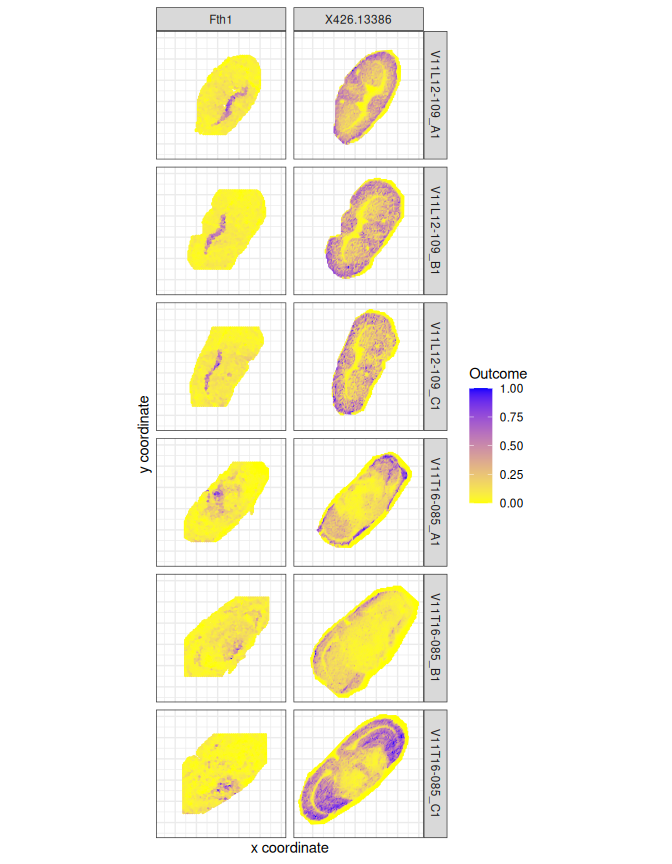
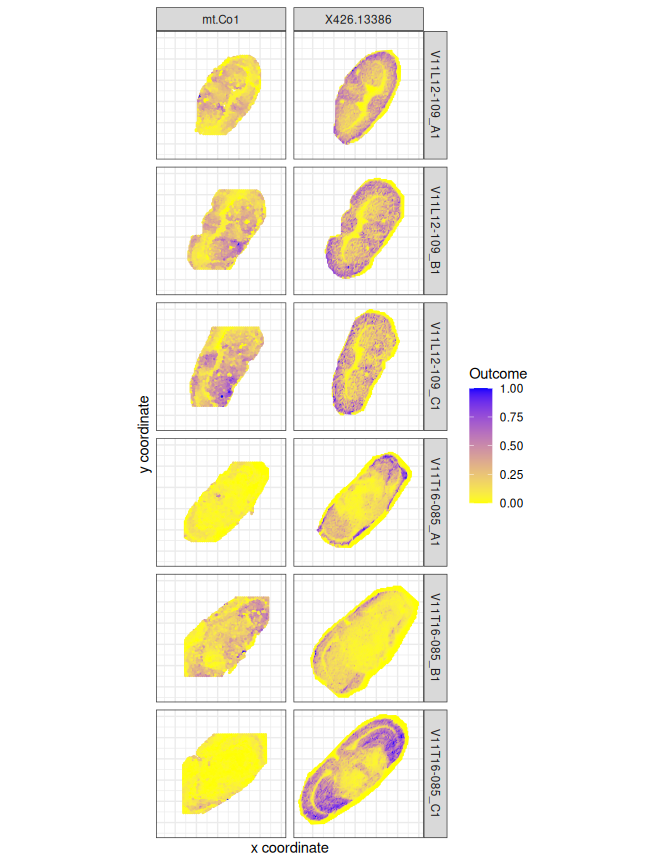
Removing reference to smoppix at installation

diff --git a/README.md b/README.md
@@ -80,7 +80,7 @@ register(MulticoreParam(2))
 
 ``` r
 moranRes <- sbivar(singleStx, singleMet, singleStxCoords, singleMetCoords,
-  method = "Moran's I"
+    method = "Moran's I"
 )
 ```
 
@@ -88,11 +88,11 @@ moranRes <- sbivar(singleStx, singleMet, singleStxCoords, singleMetCoords,
 
     ## Testing significance of bivariate Moran's I for 100 feature pairs
 
+    ## Calculating bivariate Moran's I statistics ...
+
     ## Fitting variograms for first modality (10 features) ...
 
     ## Fitting variograms for second modality (10 features) ...
-
-    ## Calculating bivariate Moran's I statistics ...
 
     ## Calculating variances of bivariate Moran's I statistics ...
 
@@ -122,13 +122,20 @@ Have a look at the results:
 head(moranRes$result)
 ```
 
-    ##                      Ixy_2e-05     Ixy_0.002       Ixy_0.2       pVal     pAdj
-    ## Fth1__X573.21671  1.194528e-04  1.022411e-04  1.221550e-05 0.02057933 0.997663
-    ## Fth1__X426.13386 -1.185796e-04 -9.845418e-05 -7.282392e-06 0.02677542 0.997663
-    ## Fth1__X537.21448 -7.912325e-05 -8.095472e-05 -1.562551e-05 0.11938969 0.997663
-    ## Fth1__X573.23369  3.945623e-05  3.128742e-05  3.549317e-06 0.14467783 0.997663
-    ## Fth1__X576.20502  7.059640e-05  7.222983e-05  1.586494e-05 0.38430998 0.997663
-    ## Fth1__X523.19829 -3.460037e-05 -4.901948e-05 -1.281152e-05 0.43401716 0.997663
+    ##                        Ixy_2e-04     Ixy_0.002      Ixy_0.02       pVal
+    ## Fth1__X573.21671    1.193165e-04  1.022411e-04  6.061050e-05 0.01816490
+    ## Fth1__X426.13386   -1.228684e-04 -9.845418e-05 -4.604064e-05 0.01944693
+    ## Fth1__X537.21448   -8.188347e-05 -8.095472e-05 -5.791695e-05 0.08811071
+    ## Fth1__X573.23369    4.075583e-05  3.128742e-05  1.621407e-05 0.09431839
+    ## mt.Co1__X426.13386  7.685216e-05  5.274923e-05  1.184522e-05 0.21346616
+    ## Fth1__X576.20502    7.445046e-05  7.222983e-05  5.841386e-05 0.24726333
+    ##                         pAdj
+    ## Fth1__X573.21671   0.9723466
+    ## Fth1__X426.13386   0.9723466
+    ## Fth1__X537.21448   0.9862872
+    ## Fth1__X573.23369   0.9862872
+    ## mt.Co1__X426.13386 0.9862872
+    ## Fth1__X576.20502   0.9862872
 
 Plot the most significantly spatially associated gene-metabolite pair :
 
@@ -161,13 +168,13 @@ log-link is used in both cases.
 
 ``` r
 multiGAMRes <- sbivar(
-  X = Vicari$TranscriptOutcomes, Y = Vicari$MetaboliteOutcomes,
-  Cx = Vicari$TranscriptCoords, Ey = Vicari$MetaboliteCoords,
-  method = "GAM", families = list("X" = mgcv::nb(), "Y" = Gamma(lin = "log"))
+    X = Vicari$TranscriptOutcomes, Y = Vicari$MetaboliteOutcomes,
+    Cx = Vicari$TranscriptCoords, Ey = Vicari$MetaboliteCoords,
+    method = "GAM", families = list("X" = mgcv::nb(), "Y" = Gamma(lin = "log"))
 )
 ```
 
-    ## Starting sbivar analysis of 6 images on 10 computing cores
+    ## Starting sbivar analysis (GAMs) of 6 images on 10 computing cores
 
     ## Image 1 of 6
 
@@ -189,7 +196,7 @@ design <- data.frame("mouse" = mouse)
 multiGAMLmms <- fitLinModels(multiGAMRes, design, Formula = ~ (1 | mouse))
 ```
 
-    ## Fitting 100 mixed effects models on 10 cores
+    ## Fitting 80 mixed effects models on 10 cores
 
 Extract the results for the desired parameter (the intercept)
 
@@ -199,12 +206,12 @@ head(multiGAMLmmsRes$result$Intercept)
 ```
 
     ##                       Estimate         SE        pVal      pAdj
-    ## Fth1__X426.13386    -0.5173665 0.08692546 0.001913878 0.1913878
-    ## mt.Atp6__X426.13386  0.3764458 0.07540160 0.004131023 0.2065512
-    ## Gm42418__X555.20345  0.2615645 0.06416528 0.009573444 0.3145332
-    ## mt.Co3__X288.1186   -0.7161940 0.19572304 0.014606780 0.3145332
-    ## mt.Co1__X288.1186   -0.5606903 0.15622991 0.015726658 0.3145332
-    ## Gm42418__X555.20713  0.2342598 0.07195066 0.022549405 0.3678948
+    ## mt.Co1__X426.13386   0.3751419 0.08554576 0.007119296 0.5695437
+    ## mt.Co2__X426.13386   0.2389757 0.10770610 0.077247025 0.8000025
+    ## mt.Nd1__X576.20502   0.1965198 0.09729149 0.099382000 0.8000025
+    ## mt.Nd2__X576.20502   0.2211247 0.11499889 0.112517980 0.8000025
+    ## Gm42418__X576.20502 -0.1295621 0.06926126 0.120316386 0.8000025
+    ## mt.Nd4__X576.20502   0.2110836 0.11554592 0.127284444 0.8000025
 
 No features are significantly associated after multiplicity correction.
 For illustration, we plot the feature pair with the smallest p-values
@@ -212,8 +219,8 @@ nevertheless:
 
 ``` r
 plotTopPair(multiGAMLmmsRes,
-  Xl = Vicari$TranscriptOutcomes, Yl = Vicari$MetaboliteOutcomes,
-  Cxl = Vicari$TranscriptCoords, Eyl = Vicari$MetaboliteCoords, size = 0.3
+    Xl = Vicari$TranscriptOutcomes, Yl = Vicari$MetaboliteOutcomes,
+    Cxl = Vicari$TranscriptCoords, Eyl = Vicari$MetaboliteCoords, size = 0.3
 )
 ```
 
